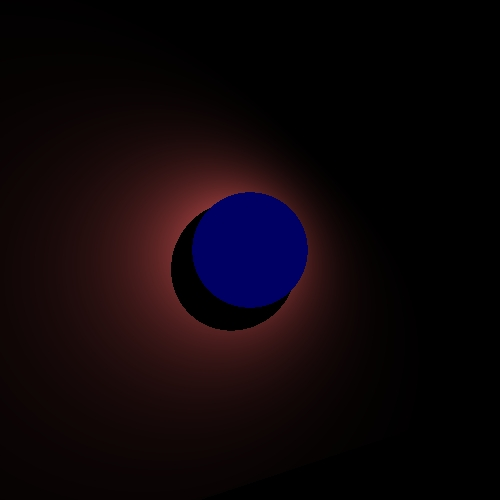
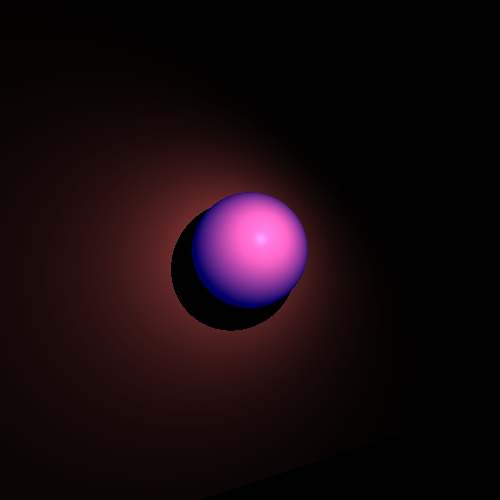
fixed

Changed region(s): [[0.39, 0.36, 0.63, 0.63]]

diff --git a/tar1_primitives/src/unittests/RenderTest.java b/tar1_primitives/src/unittests/RenderTest.java
@@ -217,15 +217,15 @@ public class RenderTest extends TestCase {
 		scene.setCamera(new Camera(new Point3D(0, 0, 0), new Vector(0, 1, 0), new Vector(0, 0, -1)), 100);
 		Geometries geometries = new Geometries();
 		scene.addGeometries(geometries);
-		Sphere sphere = new Sphere(new Point3D(0.0, 0.0, -1000), 500, new Color(0, 0, 100), new Material(1, 1, 40));
+		Sphere sphere = new Sphere(new Point3D(0.0, 0.0, -1000), 500, new Color(0, 0, 100), new Material(1.5, 0.5, 40));
 		scene.addGeometries(sphere);
 		Triangle triangle1 = new Triangle(new Point3D(3500, 3500, -2000), new Point3D(-3500, -3500, -1000),
-				new Point3D(3500, -3500, -2000), new Color(), new Material(1, 1, 40));
+				new Point3D(3500, -3500, -2000), new Color(), new Material(1.5, 0.5, 40));
 		Triangle triangle2 = new Triangle(new Point3D(3500, 3500, -2000), new Point3D(-3500, 3500, -1000),
-				new Point3D(-3500, -3500, -1000), new Color(), new Material(1, 1, 40));
+				new Point3D(-3500, -3500, -1000), new Color(), new Material(1.5, 0.5, 40));
 		scene.addGeometries(triangle1);
 		scene.addGeometries(triangle2);
-		scene.setLights(new SpotLight(new Point3D(200, 200, -100), 0, 0.000001, 0.0000005, new Color(255, 100, 100),
+		scene.setLights(new SpotLight(new Point3D(200, 200, -100), 1, 0.000001, 0.0000005, new Color(255, 100, 100),
 				new Vector(-2, -2, -3)));
 		ImageWriter imageWriter = new ImageWriter("shadow under sphere", 500, 500, 500, 500);
 		Render render = new Render(scene, imageWriter);
@@ -242,12 +242,12 @@ public class RenderTest extends TestCase {
 		scene.setAmbientLight(new AmbientLight(Color.BLACK, 1.0));
 		scene.setCamera(new Camera(new Point3D(0, 0, 0), new Vector(0, 1, 0), new Vector(0, 0, -1)), 300);
 		Sphere sphere = new Sphere(new Point3D(0.0, 0.0, -1000), 500, new Color(0, 0, 100),
-				new Material(1, 1, 40, 0, 0.7));
+				new Material(1.5, 0.5, 40, 0, 0.8));
 		scene.addGeometries(sphere);
 		Sphere sphere2 = new Sphere(new Point3D(0.0, 0.0, -1000), 250, new Color(100, 20, 20),
-				new Material(1, 1, 40, 0, 0.2));
+				new Material(0.5, 0.5, 40, 0, 0));
 		scene.addGeometries(sphere2);
-		scene.setLights(new SpotLight(new Point3D(-200, -200, -150), 0.1, 0.00001, 0.000005, new Color(255, 100, 100),
+		scene.setLights(new SpotLight(new Point3D(-200, -200, -150), 1, 0.00001, 0.000005, new Color(255, 100, 100),
 				new Vector(2, 2, -3)));
 		ImageWriter imageWriter = new ImageWriter("Recursive Test 1", 500, 500, 500, 500);
 		Render render = new Render(scene, imageWriter);
@@ -277,7 +277,7 @@ public class RenderTest extends TestCase {
 				new Point3D(-1500, -1500, -1500), new Color(20, 20, 20), new Material(1, 1, 40, 1, 0));
 		scene.addGeometries(triangle);
 		scene.addGeometries(triangle2);
-		scene.setLights(new SpotLight(new Point3D(200, 200, -150), 0, 0.00001, 0.000005, new Color(255, 100, 100),
+		scene.setLights(new SpotLight(new Point3D(200, 200, -150), 1, 0.00001, 0.000005, new Color(255, 100, 100),
 				new Vector(-2, -2, -3)));
 		ImageWriter imageWriter = new ImageWriter("Recursive Test 2", 500, 500, 500, 500);
 		Render render = new Render(scene, imageWriter);
@@ -307,7 +307,7 @@ public class RenderTest extends TestCase {
 				new Point3D(-1000, -1000, -1500), new Color(20, 20, 20), new Material(0.5, 0.5, 20, 0.5, 0));
 		scene.addGeometries(triangle);
 		scene.addGeometries(triangle2);
-		scene.setLights(new SpotLight(new Point3D(200, 200, -150), 0, 0.00001, 0.000005, new Color(255, 100, 100),
+		scene.setLights(new SpotLight(new Point3D(200, 200, -150), 1, 0.00001, 0.000005, new Color(255, 100, 100),
 				new Vector(-2, -2, -3)));
 		ImageWriter imageWriter = new ImageWriter("Recursive Test 3", 500, 500, 500, 500);
 		Render render = new Render(scene, imageWriter);
@@ -338,7 +338,7 @@ public class RenderTest extends TestCase {
 		Triangle triangle6 = new Triangle(new Point3D(-3500, 1800, -1000), new Point3D(3500, 1800, -1000),
 				new Point3D(3500, 1500, -1000), new Color(java.awt.Color.blue), new Material(0.5, 0.5, 20, 0, 0));
 		scene.addGeometries(triangle1, triangle2, triangle3, triangle4, triangle5, triangle6);
-		scene.setLights(new SpotLight(new Point3D(200, 200, -150), 0, 0.00001, 0.000005, new Color(255, 100, 100),
+		scene.setLights(new SpotLight(new Point3D(200, 200, -150), 1, 0.00001, 0.000005, new Color(255, 100, 100),
 				new Vector(-2, -2, -3)));
 		ImageWriter imageWriter = new ImageWriter("star", 500, 500, 500, 500);
 		Render render = new Render(scene, imageWriter);
@@ -361,7 +361,7 @@ public class RenderTest extends TestCase {
 		Triangle triangle = new Triangle(new Point3D(-125, -225, -260), new Point3D(-225, -125, -260),
 				new Point3D(-225, -225, -270), new Color(0, 0, 100), new Material());
 		scene.addGeometries(triangle);
-		scene.setLights(new SpotLight(new Point3D(-200, -200, -150), 0.1, 0.00001, 0.000005, new Color(255, 100, 100),
+		scene.setLights(new SpotLight(new Point3D(-200, -200, -150), 1, 0.00001, 0.000005, new Color(255, 100, 100),
 				new Vector(2, 2, -3)));
 		ImageWriter imageWriter = new ImageWriter("shadow with triangle and sphere", 500, 500, 500, 500);
 		Render render = new Render(scene, imageWriter);
@@ -381,7 +381,7 @@ public class RenderTest extends TestCase {
 		Triangle triangle = new Triangle(new Point3D(-125, -225, -260), new Point3D(-225, -125, -260),
 				new Point3D(-225, -225, -270), new Color(0, 0, 100), new Material());
 		scene.addGeometries(triangle);
-		scene.setLights(new SpotLight(new Point3D(-200, -200, -150), 0.1, 0.00001, 0.000005, new Color(255, 100, 100),
+		scene.setLights(new SpotLight(new Point3D(-200, -200, -150), 1, 0.00001, 0.000005, new Color(255, 100, 100),
 				new Vector(2, 2, -3)));
 		scene.setLights(new DirectionalLight(new Color(255, 100, 100),
 				new Vector(2, 2, -3)));
